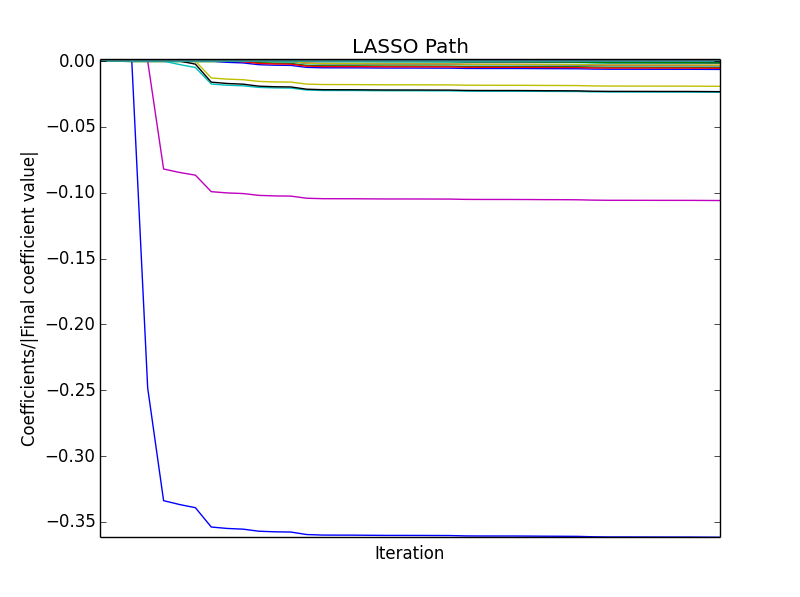
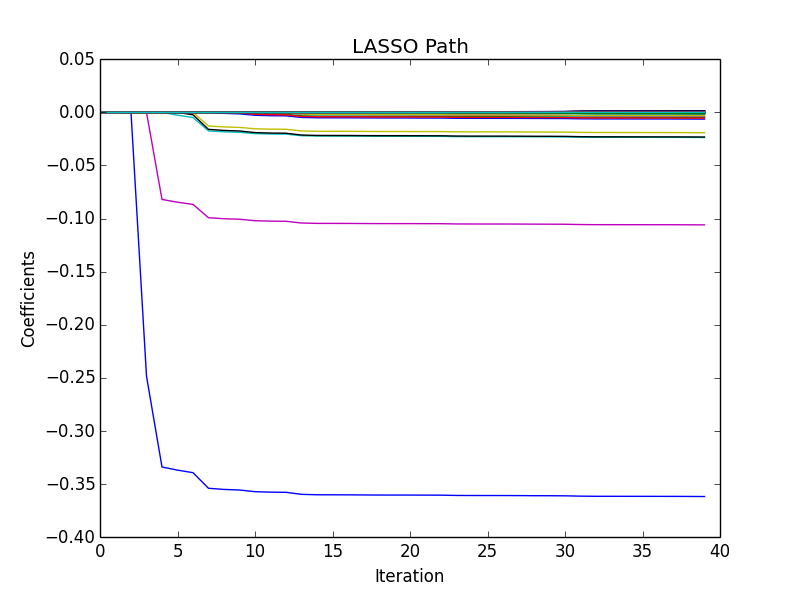
Changed image in result-lar

diff --git a/Code/ols_lars.py b/Code/ols_lars.py
@@ -51,13 +51,28 @@ print '\n'
 print coefs[:,7][:7]
 print description[:7]
 
+
 scaledY=(coefs.T/np.abs(coefs[:,-1]))
+print coefs.T.shape,scaledY.shape,alphas.shape
 plt.figure()
 plt.plot(range(40),coefs.T)
 
 plt.xlabel('Iteration')
 plt.ylabel('Coefficients')
 plt.title('LASSO Path')
+plt.xticks()
+
+#the following is commented because 1 coefficient has such big fluctuations that the plot is unreadable
+"""
+plt.figure()
+print np.tile(alphas,[39,1]).shape, scaledY.shape
+plt.plot(np.tile(alphas,[39,1]).T,scaledY)
+
+plt.xlabel('alpha')
+plt.ylabel('Coefficient/|Final coefficient value|')
+plt.title('LASSO Path')
+plt.xticks()
+"""
 
 plt.figure()
 plt.plot(range(40),scaledY)
